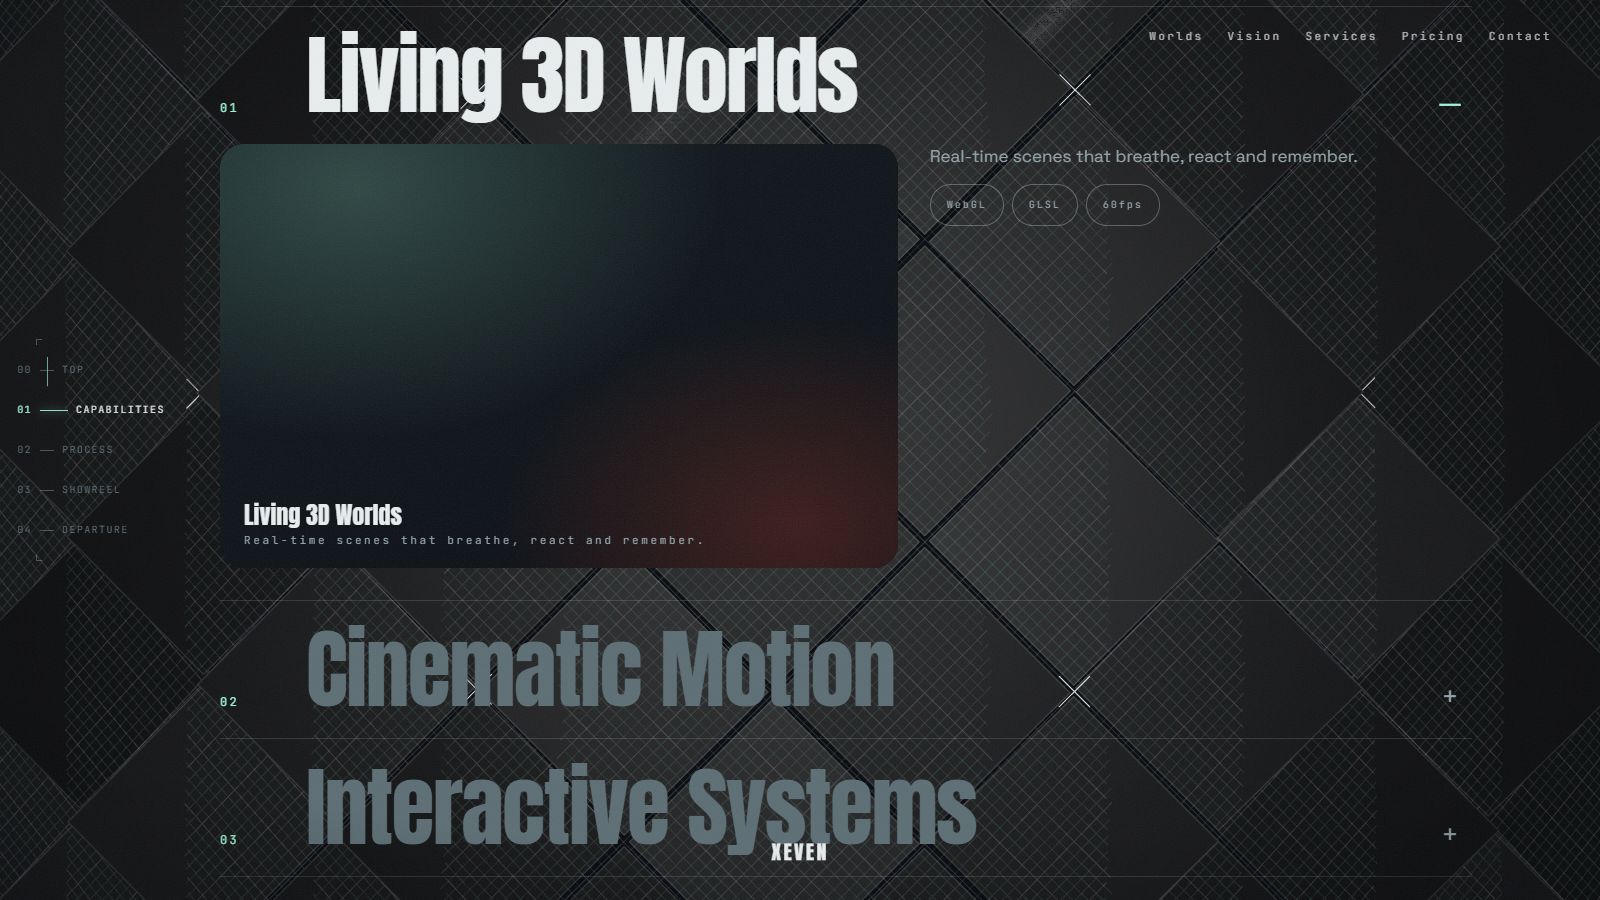
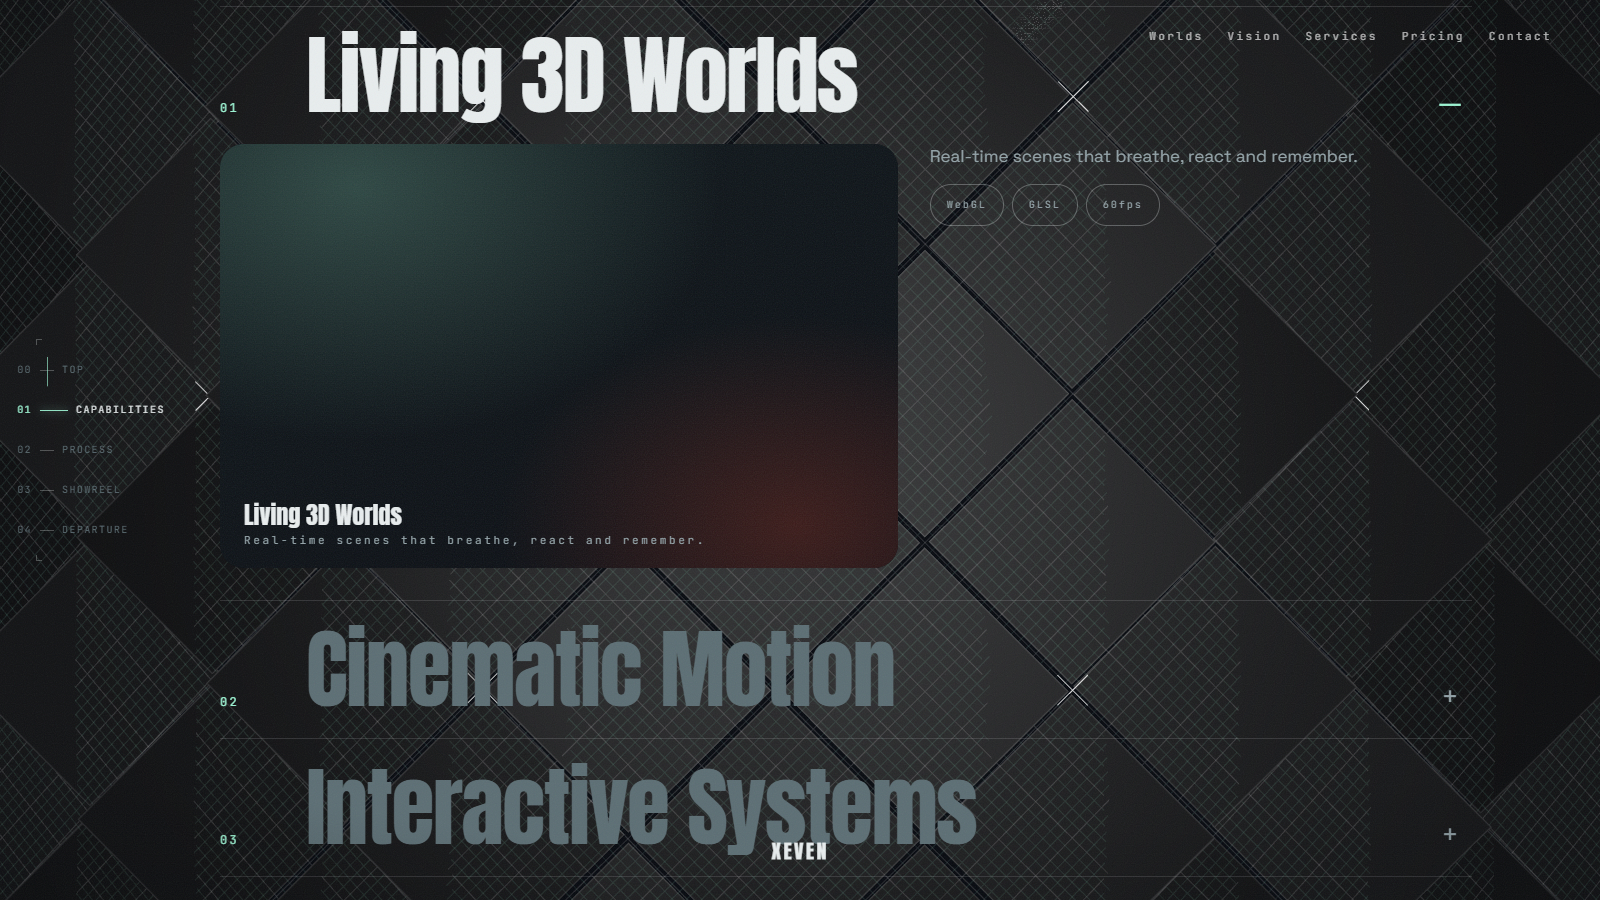
Reel declutter: veil wash + letterbox removed, pure orbit

diff --git a/src/pages/EnterStage.tsx b/src/pages/EnterStage.tsx
@@ -299,37 +299,7 @@ export default function EnterStage() {
         { rot: TAU, ease: 'none', duration: 1, onUpdate: layoutOrbit },
         0,
       )
-      // letterbox: cinematic bars close over the pin and lift at release
-      orbitTl.fromTo(
-        '.reel-bar-top',
-        { yPercent: -100 },
-        { yPercent: 0, ease: 'none', duration: 0.08 },
-        0,
-      )
-      orbitTl.fromTo(
-        '.reel-bar-bottom',
-        { yPercent: 100 },
-        { yPercent: 0, ease: 'none', duration: 0.08 },
-        0,
-      )
-      orbitTl.to('.reel-bar-top', { yPercent: -100, ease: 'none', duration: 0.08 }, 0.92)
-      orbitTl.to('.reel-bar-bottom', { yPercent: 100, ease: 'none', duration: 0.08 }, 0.92)
       layoutOrbit()
-      // white wash: a soft light that integrates with the dark field instead
-      // of covering it — one timeline owns the veil end to end (two
-      // competing scrubbed tweens on one property resolve
-      // nondeterministically on discontinuous jumps)
-      const veilTl = gsap.timeline({
-        scrollTrigger: { trigger: '.st-reel', start: 'top 90%', end: 'bottom -120%', scrub: 1.2 },
-      })
-      veilTl
-        .fromTo(
-          '.veil-white',
-          { clipPath: 'circle(0px at 50% calc(100% - 48px))', opacity: 0 },
-          { clipPath: 'circle(150vmax at 50% calc(100% - 48px))', opacity: 1, ease: 'none', duration: 0.8 },
-          0,
-        )
-        .to('.veil-white', { clipPath: 'circle(0px at 50% calc(100% - 48px))', opacity: 0, ease: 'none', duration: 1 }, 2.2)
       // process lives on the dark field — no spread, no takeover. The ink
       // stays bone/muted/mint throughout (pure CSS); the thread, the node
       // and the active-row light carry the motion instead.
@@ -415,7 +385,6 @@ export default function EnterStage() {
   return (
     <div className="st-scroll" ref={root}>
       <SectionRail />
-      <div className="veil-white" aria-hidden="true" />
       <button className="mark-fixed" onClick={toTop} data-cursor aria-label="XEVEN — back to top">
         <span className="mark-word">XEVEN</span>
         <span className="mark-x" aria-hidden="true">
@@ -478,8 +447,6 @@ export default function EnterStage() {
             </div>
           ))}
         </div>
-        <div className="reel-bar reel-bar-top" aria-hidden="true" />
-        <div className="reel-bar reel-bar-bottom" aria-hidden="true" />
       </section>
 
       <footer className="st-foot">

diff --git a/src/chrome.css b/src/chrome.css
@@ -267,10 +267,6 @@
   position: absolute; top: 4vh; right: 6vw; z-index: 5; margin: 0;
   font-family: var(--mono); font-size: 11px; letter-spacing: 0.24em; color: var(--muted);
 }
-/* letterbox bars: pure black, in/out with the pin (sole writer: stageTl) */
-.reel-bar { position: absolute; left: 0; right: 0; height: 8svh; background: #000; z-index: 4; }
-.reel-bar-top { top: 0; }
-.reel-bar-bottom { bottom: 0; }
 /* cell title lift on hover (180ms, transform-only, no scrubbed conflicts) */
 .vid-meta p { transition: transform 180ms ease; }
 .vid-meta span { transition: color 180ms ease; }
@@ -367,7 +363,7 @@
 .st-foot a:hover::after { transform: scaleX(1); transform-origin: left center; }
 .foot-time { margin: 0; opacity: 0.8; }
 
-/* ---------- index scroll cinema: migrating mark + white veil ---------- */
+/* ---------- index scroll cinema: migrating mark ---------- */
 .mark-fixed {
   position: fixed; left: 50%; bottom: 26px; transform: translateX(-50%);
   z-index: 41; font-family: var(--disp); font-size: 20px; letter-spacing: 0.12em;
@@ -379,11 +375,6 @@
 .mark-word { position: relative; }
 /* retired X-cover state: wordmark stays for the whole journey now */
 .mark-x { display: none; }
-.veil-white {
-  position: fixed; inset: 0; z-index: 30; pointer-events: none;
-  background: radial-gradient(circle at 50% 100%, rgba(242, 240, 234, 0.42), rgba(242, 240, 234, 0) 70%);
-  clip-path: circle(0px at 50% calc(100% - 48px));
-}
 
 /* ---------- video cards ---------- */
 .vid { position: relative; border-radius: 24px; overflow: hidden; aspect-ratio: 16/10; background: #0a0f14; }
@@ -496,8 +487,7 @@
   .st-reel { overflow: hidden; }
   .reel-track { height: auto; display: flex; flex-direction: column; gap: var(--s32); padding: 10vh 6vw; }
   .reel-cell { position: static; inset: auto; margin: 0 auto; opacity: 1; width: 100%; max-width: 860px; }
-  .reel-bar { display: none; }
-  /* cinema layers stand down entirely — veil clip is already zero, but
-     keep them out of the a11y/paint tree for certainty */
-  .veil-white, .mark-fixed { display: none; }
+  /* cinema layers stand down entirely — keep them out of the a11y/paint
+     tree for certainty */
+  .mark-fixed { display: none; }
 }

diff --git a/backlog.md b/backlog.md
@@ -54,5 +54,6 @@ Scope frozen: map-only phase found zero blank routes, zero dead links, zero cons
 - [x] Correction pass (9 notes): bar-free navbar (content floats, zero bar chrome); custom cursor fully deleted (native only, 0 dots 0 rings verified); rail clears the process gutter (rows + spine shifted right, thread/stub/node math follows, mobile reclaims gutter); X grow + white spread removed (mark simply yields at proc end, process integrates with the dark field — thread/node/row-light carry it); intro reborn as MERGE (full-field bone spheres gather distance-delayed into a mint mass, ledger live, no ember, no burst). Verified: builds green, 3 pre-existing warnings, Edge 0 errors / 0 overflow, intro ledger 039→059 live. Frames VISUALLY VERIFIED (merge mass with mint heart; dark process with ember rows + node + bone mark; instrument rail clear). Evidence: refreshed g3 + g2 in verify/world/.
 - [x] Capabilities + Showreel overhaul (full authority): CAPS cards were empty gradient slabs in a sprawling zigzag — now spec sheets (stack chips WebGL/GLSL/60fps etc., ghost numerals kept, Tilt kept) on a tightened 12vh rhythm with rail-clear gutter. Showreel rebuilt as cinema: letterbox bars closing over the pin, Ken Burns breathing inside every hold (inner-media scale, zero writer conflicts), single-timeline takes with counter. Verified: build green, 3 pre-existing warnings, Edge 0 errors / 0 overflow, stage 03/05 mid-pin, 2 bars, 12 spec chips, rail clears cards. Frames VISUALLY VERIFIED (spec-sheet card + dealing deck; letterboxed Chrome-drift take with ghost marquee). Evidence: verify/world/d4-world.json + g1 + g4.
 - [x] Capabilities + Showreel creative destruction: CAPS cards + deck-throw + Tilt + ghosts fully removed — capabilities are now a SPECIMEN INDEX (giant ruled titles, IO opens the centered row revealing media + data + stack chips, click exclusive, reduced stands fully open). Showreel conveyor/stage gone — takes now ride an ORBITAL RING (scrubbed 360° revolution, upright unreadable-never titles, depth scale/opacity/zIndex, front-take counter, letterbox + ghost kept, single layout writer, viewport-relative ellipse = resize-proof). Verified: build green, 3 pre-existing warnings, Edge 0 errors / 0 overflow, counter live, 12 chips. Frames VISUALLY VERIFIED (open specimen with media+chips over ruled list; orbital depth collage with letterbox). Evidence: verify/world/d4-world.json + refreshed g1 + g4.
+- [x] Reel declutter: white veil wash + letterbox bars fully removed (timeline, elements, CSS, reduced rules) — the orbit now floats pure on the diamond field with ghost + counter only. Verified: build green, 3 pre-existing warnings, Edge 0 errors / 0 overflow. Frame VISUALLY VERIFIED (clean dark orbit, no wash, no bars). Evidence: refreshed g4.
 - [x] Blob streaks removed (cursor line gone, kindle glow kept): excised the 110-particle streak system from VOIDWORLD — geometry, projector math, per-frame particle sim, debug toggle — while preserving the eased finger/echo feed, stir/bloom/velocity uniforms and the quad-shader kindle. The field still breathes light around the pointer; no line, streak, or shape ever chases it now. Verified: build green, tsc clean, 3 pre-existing warnings, Edge 0 errors / 0 overflow on a mouse-sweep pass, hero frame shows zero trailing geometry. Evidence: refreshed g0 in verify/world/.
 - [x] Five-act index (A–F execution): trimmed to TOP → CAPABILITIES → PROCESS → SHOWREEL → DEPARTURE — manifesto pin/scrub, stats/counters/rules, tiers/TierCard deleted with all tweens (178 lines out); tb-logo return retargeted to foot; rail + camera journey 8→5 stops. (B) TopBar invisible on index (rail owns nav; returns on subpages). Rail rebuilt as survey instrument: always-on labels, 10px type, glowing active tick, end-cap brackets, progress hairline. (C) Fan-deck THROW: deck materializes behind the mark, cards toss on curved paths (linear x × eased y) unwinding rotation and blooming scale into slots. (D) Showreel STAGE: pinned fullscreen takes assembling/yielding through the frame (single timeline owns all cell opacity/scale); X slide-cover kept as the door (fits the bridge); counter intact. (E) Cursor stripped to one crisp 1:1 dot (ring/dot/trail gone, difference-blend kept); intro tightened 3.3s→1.9s (fast burn, ember kiss, SIGNAL/WORLD/LIVE ledger). Verified: builds green throughout, 3 pre-existing warnings, Edge 0 errors / 0 overflow, 5 rail stops from 00 TOP, dead sections absent, 1 dot 0 rings, 5 cells staged. Frames VISUALLY VERIFIED (instrument rail, thrown card + ghost 01, ember rows + node + black X). Evidence: verify/world/d4-world.json + refreshed g0/g1/g2.
